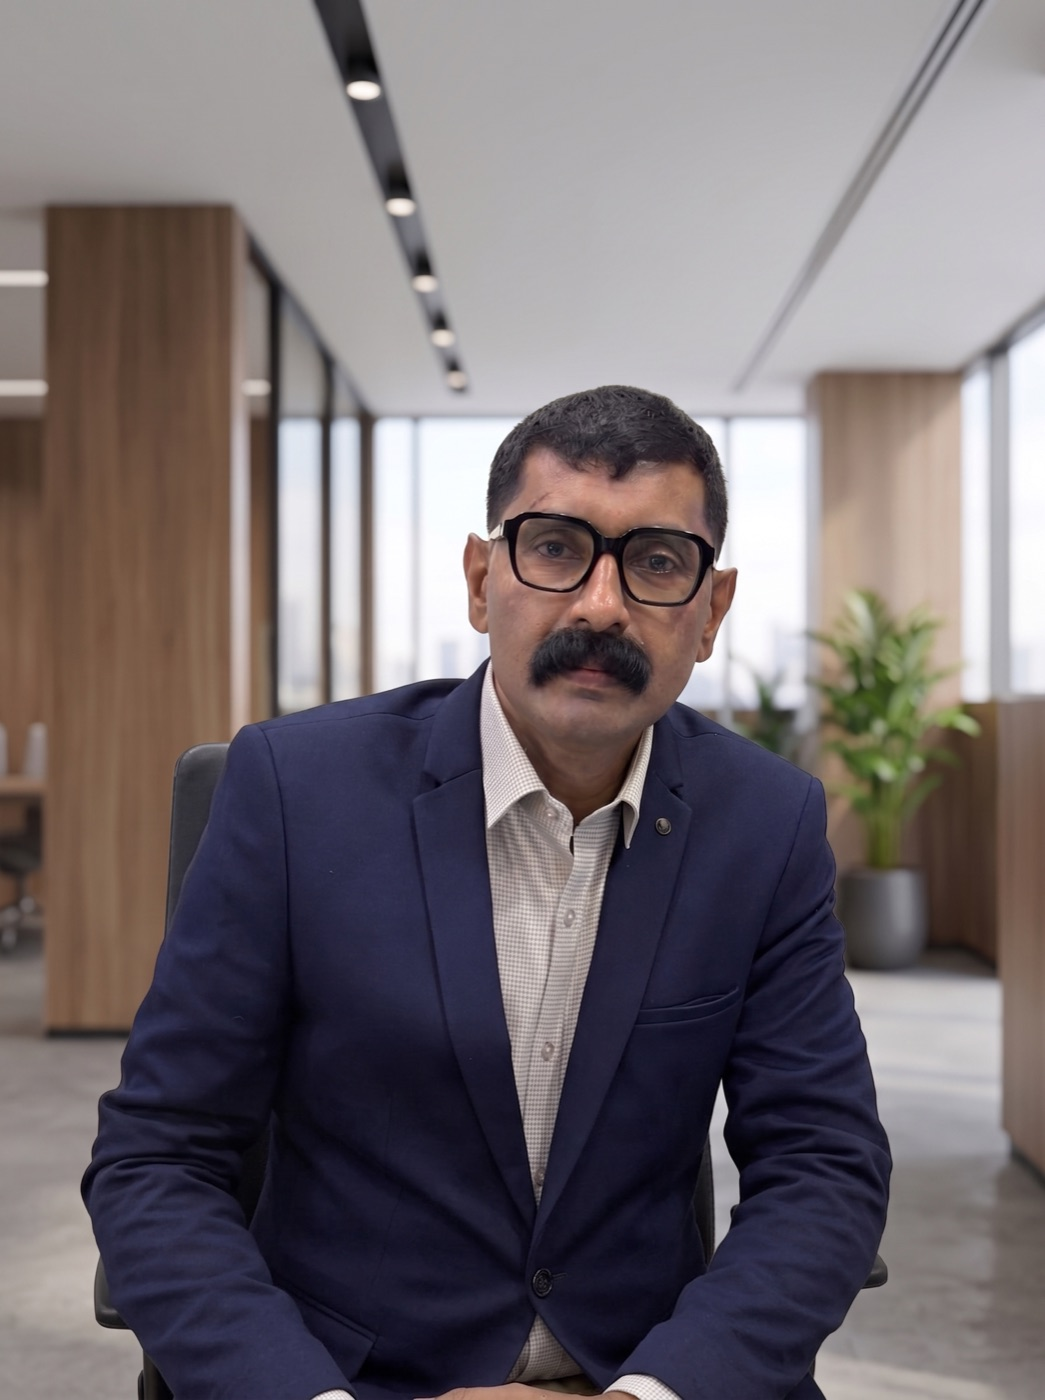
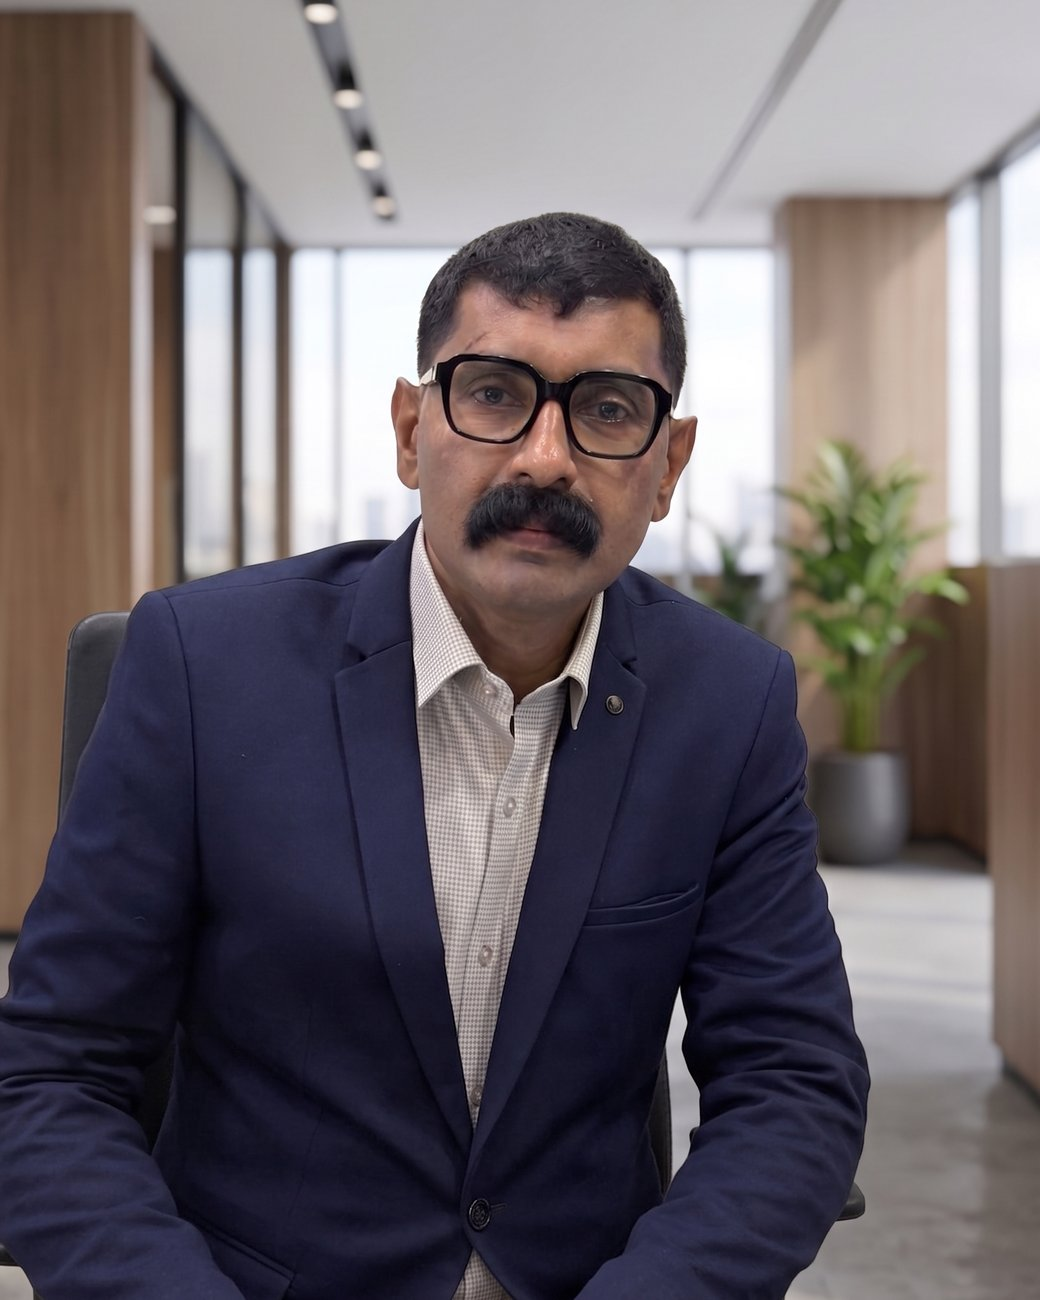
fix: second round of client corrections
Our Team
- Remove Jeffrin Rodrigues' profile for now (photo kept in
  public/faculty-images so it is a one-line restore).
- Re-crop Aji Chacko, Deljo C Poulose and Isabella Davis to 4:5 with the
  same framing as the other cards — roughly 18% headroom and the head at
  about a quarter of the card height. They were sitting too far back.

HireEzee
- "Who It's For" keeps Job Seekers, Career Switchers and Diploma/UG/PG
  Students; only Fresh Graduates and Final Year Students are folded into
  the new "Students & Graduates in Logistics" card.

diff --git a/src/components/AdvisoryBoard.tsx b/src/components/AdvisoryBoard.tsx
@@ -31,15 +31,6 @@ const board: BoardMember[] = [
             "Mr. Aji Chacko is a visionary corporate leader who pilots Linear Global Logistics Pvt. Ltd. as its Managing Director. His extensive footprint in the industry covers international air freight ecosystems, airline agency management, and advanced multi-modal supply chains. Mr. Aji infuses the Logistics Gurukul curriculum with elite, top-tier corporate perspective, actively equipping students with the complex skills needed to handle global airport hub routing, premium air cargo operations, and international transit compliance.",
     },
     {
-        name: "Jeffrin Rodrigues",
-        designation: "Vice President – Berrio Lines Pvt. Ltd.",
-        highlight: "Dangerous Goods Cargo Handling Expert",
-        image: "/faculty-images/jeffrin-rodrigues.jpg",
-        expertise: ["Dangerous Goods & IMDG", "Freight Forwarding", "NVOCC & Liner Agency", "Multimodal Risk Mitigation"],
-        description:
-            "With a comprehensive career arc running through CHA, Freight Forwarding, NVOCC, and Liner Agency sectors, Mr. Jeffrin Rodrigues currently drives strategic operations as the Vice President of Berrio Lines Pvt. Ltd. His impressive professional journey includes key milestones with COSCO Shipping Lines and a pivotal tenure at NYK Line, where he was instrumental in establishing their specialized Dangerous Goods Desk. At Logistics Gurukul, Jeffrin delivers rare, highly technical training in the safe transit of hazardous cargo, international IMDG regulations, and multimodal risk mitigation.",
-    },
-    {
         name: "Deljo C Poulose",
         designation: "Ex-General Manager – Alligator Shipping CO LLC",
         highlight: "Business Development Expert (GCC)",
